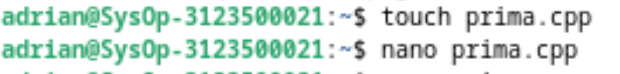
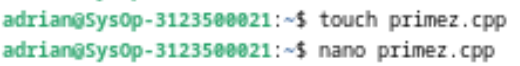
repair

diff --git a/week-5/README.md b/week-5/README.md
@@ -124,17 +124,37 @@ Utilitas untuk melakukan pengontrolan proses dapat ditemukan pada sistem UNIX ad
 ## PERCOBAAN
 1. Login sebagai user.
 2. Download program C++ untuk menampilkan bilangan prima yang bernama _primes_.
+
+    Inatall C++ dengan perintah '$ sudo apt-get install g++'.
     ```
     $ sudo apt-get install g++
     ```
      ![img](assets/img/30.png)
-     ```
-    $ touch prima.cpp
-    $ nano prima.cpp
+     
+    Buat file baru dan isi dengan program untuk menentukan bilangan prima.
+    ```
+    $ touch primez.cpp
+    $ nano primez.cpp
     ```
     ![img](assets/img/31.png)
-    
+
     ![img](assets/img/32.png)
+
+    Compail dengan perintah '$ g++ -o primez primez.cpp'
+    ```
+    $ g++ -o primez primez.cpp
+    ```
+
+    ![img](assets/img/33.png)
+    
+    Jalankan program dengan perintah '$ ./primez' dan inputkan nilai yang ingin di cek lalu klik enter.
+    ```
+    $ ./primez
+    ```
+
+    ![img](assets/img/34.png)
+
+
 3. Lakukan percobaan-percobaan di bawah ini kemudian analisa hasil percobaan.
 4. Selesaikan soal-soal latihan.
 
